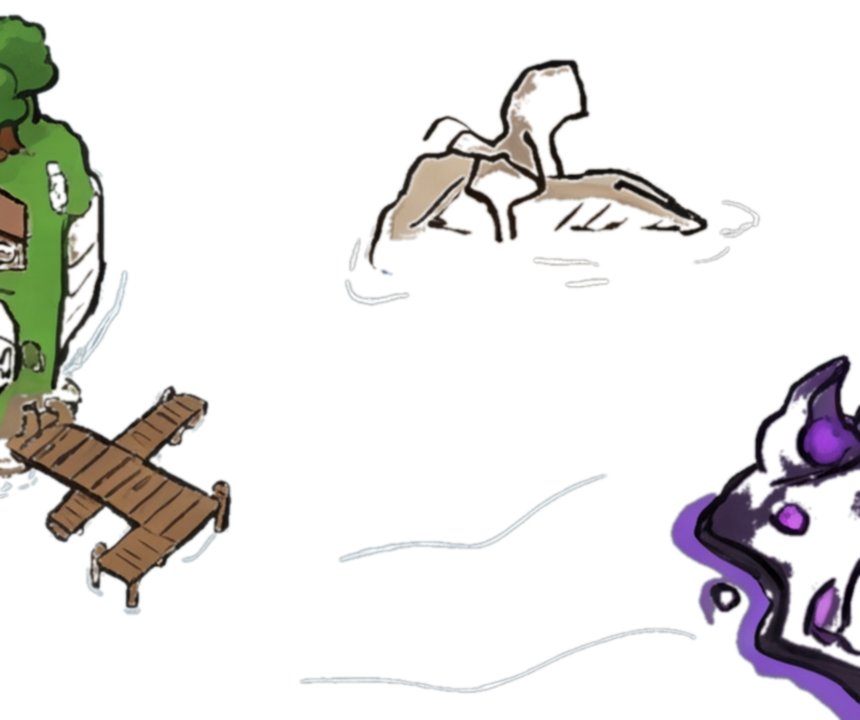
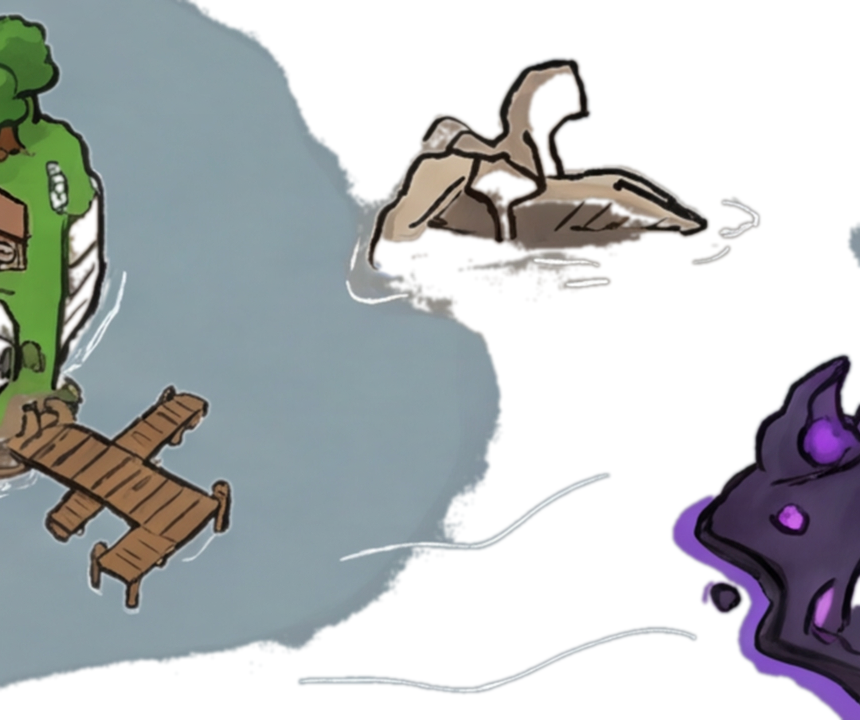
Fix island positioning: exact overlay from crop coordinates, better ocean removal
Island buttons now use pixel-perfect positions derived from crop-islands.py
bounding boxes (top-left corner as % of 5504x3072 map). Removed
translate(-50%,-50%) so crops overlay the map imperceptibly. Improved ocean
removal using edge-sampled color distance instead of spread/brightness.
Hover uses brightness filter instead of scale.

diff --git a/src/components/FischWorldMap.tsx b/src/components/FischWorldMap.tsx
@@ -144,29 +144,33 @@ const GROUPS: IslandGroup[] = [
   { id:'keepers-altar', name:"Keeper's Altar", icon:'⛩', label:'Under Statue', children:['keepers-altar'], gps:{x:100,z:-1100}, type:'special', sea:'first' },
 ];
 
-/* ---- Island button positions (CSS %) ---- */
+/* ---- Island button positions (CSS %) ----
+   Derived from crop-islands.py bounding boxes on the 5504x3072 map.
+   left/top = top-left corner of the crop rectangle as % of map.
+   w = crop width as % of map width. No translate(-50%,-50%) — exact overlay. */
 const ISLAND_POS: Record<string, { left: string; top: string; w: string }> = {
-  'northern-caves':        { left: '12%', top: '8%', w: '8%' },
-  'sunstone-island':       { left: '18%', top: '18%', w: '7%' },
-  'statue-of-sovereignty': { left: '38%', top: '22%', w: '4%' },
-  'the-laboratory':        { left: '33%', top: '27%', w: '4%' },
-  'castaway-cliffs':       { left: '46%', top: '15%', w: '5%' },
-  'the-arch':              { left: '52%', top: '22%', w: '5%' },
-  'birch-cay':             { left: '58%', top: '12%', w: '5%' },
-  'mushgrove-swamp':       { left: '78%', top: '12%', w: '10%' },
-  'harvesters-spike':      { left: '22%', top: '44%', w: '5%' },
-  'roslit-bay':            { left: '16%', top: '42%', w: '9%' },
-  'moosewood':             { left: '42%', top: '42%', w: '12%' },
-  'lushgrove':             { left: '56%', top: '28%', w: '6%' },
-  'emberreach':            { left: '66%', top: '22%', w: '5%' },
-  'earmark-island':        { left: '56%', top: '48%', w: '4%' },
-  'cursed-isle':           { left: '66%', top: '50%', w: '8%' },
-  'forsaken-shores':       { left: '12%', top: '65%', w: '10%' },
-  'terrapin-island':       { left: '38%', top: '68%', w: '11%' },
-  'snowcap-island':        { left: '75%', top: '65%', w: '10%' },
-  'ancient-isle':          { left: '95%', top: '35%', w: '6%' },
-  'waveborne':             { left: '40%', top: '88%', w: '6%' },
-  'treasure-island':       { left: '58%', top: '90%', w: '5%' },
+  'northern-caves':        { left: '4.72%',  top: '0%',      w: '14.53%' },
+  'sunstone-island':       { left: '12.19%', top: '9.86%',   w: '11.63%' },
+  'statue-of-sovereignty': { left: '34.74%', top: '14%',     w: '6.54%' },
+  'the-laboratory':        { left: '29.72%', top: '21.81%',  w: '6.54%' },
+  'the-arch':              { left: '48%',    top: '14.84%',  w: '7.99%' },
+  'birch-cay':             { left: '53.27%', top: '4.85%',   w: '9.45%' },
+  'mushgrove-swamp':       { left: '67.82%', top: '0%',      w: '20.35%' },
+  'harvesters-spike':      { left: '18.19%', top: '35.87%',  w: '7.63%' },
+  'roslit-bay':            { left: '7.65%',  top: '30.27%',  w: '16.72%' },
+  'moosewood':             { left: '31.10%', top: '28.32%',  w: '21.80%' },
+  'lushgrove':             { left: '50.18%', top: '19.21%',  w: '11.63%' },
+  'earmark-island':        { left: '52.36%', top: '42.81%',  w: '7.27%' },
+  'cursed-isle':           { left: '58.19%', top: '38.28%',  w: '15.62%' },
+  'forsaken-shores':       { left: '2.36%',  top: '51.01%',  w: '19.26%' },
+  'terrapin-island':       { left: '27.11%', top: '53.68%',  w: '21.80%' },
+  'snowcap-island':        { left: '64.46%', top: '50.03%',  w: '21.08%' },
+  'ancient-isle':          { left: '88.46%', top: '21.97%',  w: '11.54%' },
+  /* Islands not on the painted map — manual positions */
+  'castaway-cliffs':       { left: '46%',    top: '15%',     w: '5%' },
+  'emberreach':            { left: '66%',    top: '18%',     w: '5%' },
+  'waveborne':             { left: '40%',    top: '88%',     w: '6%' },
+  'treasure-island':       { left: '58%',    top: '90%',     w: '5%' },
 };
 
 /* Special zone positions */

diff --git a/scraper-fisch/crop-islands.py b/scraper-fisch/crop-islands.py
@@ -8,11 +8,11 @@ OUT_DIR = r'C:\Users\santi\Desktop\PROYECTOS VS CODE\WEB CODIGOS-GRATIS\public\i
 os.makedirs(OUT_DIR, exist_ok=True)
 
 img = Image.open(MAP_PATH).convert('RGBA')
-W, H = img.size  # 3072 x 1729
+W, H = img.size  # 5504 x 3072
 print(f'Source image: {W}x{H}')
 
 # Island crops: name -> (center_x, center_y, half_width, half_height)
-# Centers derived from % positions mapped to actual 5504x3072 image
+# Coordinates are for the 5504x3072 map image
 ISLANDS = {
     'northern-caves':        (660, 246, 400, 300),
     'sunstone-island':       (991, 553, 320, 250),
@@ -34,40 +34,57 @@ ISLANDS = {
 }
 
 def remove_ocean(crop_img):
-    """Make ocean (grey, low-saturation) pixels transparent."""
-    arr = np.array(crop_img, dtype=np.int16)
-    r, g, b, a = arr[:,:,0], arr[:,:,1], arr[:,:,2], arr[:,:,3]
+    """Make ocean pixels transparent using color distance from edge-sampled ocean."""
+    arr = np.array(crop_img, dtype=np.float32)
+    h, w = arr.shape[:2]
 
-    rgb_max = np.maximum(np.maximum(r, g), b)
-    rgb_min = np.minimum(np.minimum(r, g), b)
-    spread = rgb_max - rgb_min
-    brightness = (r + g + b) / 3
+    # Sample ocean color from all edges (8px border)
+    b = min(8, h // 4, w // 4)
+    edge_pixels = np.concatenate([
+        arr[:b, :, :3].reshape(-1, 3),       # top rows
+        arr[-b:, :, :3].reshape(-1, 3),      # bottom rows
+        arr[b:-b, :b, :3].reshape(-1, 3),    # left cols (excluding corners already counted)
+        arr[b:-b, -b:, :3].reshape(-1, 3),   # right cols
+    ], axis=0)
 
-    # Ocean: low color spread + medium brightness
-    is_ocean = (spread < 38) & (brightness > 65) & (brightness < 168)
+    # Use median (robust to island pixels that touch edges)
+    ocean_color = np.median(edge_pixels, axis=0)
+    print(f'    ocean color: R={ocean_color[0]:.0f} G={ocean_color[1]:.0f} B={ocean_color[2]:.0f}')
 
-    new_alpha = a.copy()
+    # Color distance from ocean
+    diff = np.sqrt(np.sum((arr[:,:,:3] - ocean_color) ** 2, axis=2))
+
+    # Pixels close to ocean color → transparent
+    is_ocean = diff < 42
+
+    new_alpha = arr[:,:,3].copy()
     new_alpha[is_ocean] = 0
     arr[:,:,3] = new_alpha
 
     result = Image.fromarray(arr.astype(np.uint8))
 
-    # Smooth alpha edges
+    # Smooth alpha edges for clean transition
     alpha = result.split()[3]
-    alpha = alpha.filter(ImageFilter.GaussianBlur(radius=1.2))
+    alpha = alpha.filter(ImageFilter.GaussianBlur(radius=1.5))
     result.putalpha(alpha)
 
     return result
 
+# Also output positions as CSS % for FischWorldMap.tsx
+print('\n--- CSS positions (left, top, width) ---')
 for name, (cx, cy, hw, hh) in ISLANDS.items():
     x1, y1 = max(0, cx - hw), max(0, cy - hh)
     x2, y2 = min(W, cx + hw), min(H, cy + hh)
+
+    left_pct = x1 / W * 100
+    top_pct = y1 / H * 100
+    width_pct = (x2 - x1) / W * 100
 
     crop = img.crop((x1, y1, x2, y2))
     crop = remove_ocean(crop)
 
     out = os.path.join(OUT_DIR, f'{name}.png')
     crop.save(out, 'PNG')
-    print(f'  {name}: {x2-x1}x{y2-y1}px')
+    print(f'  {name}: {x2-x1}x{y2-y1}px => left:{left_pct:.2f}% top:{top_pct:.2f}% w:{width_pct:.2f}%')
 
 print(f'\nDone: {len(ISLANDS)} islands cropped')
